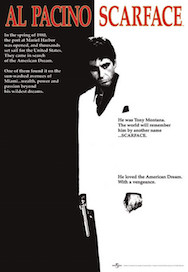
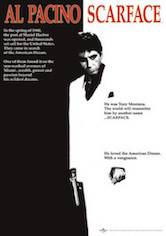
update videos_controller; fix image size

diff --git a/app/controllers/videos_controller.rb b/app/controllers/videos_controller.rb
@@ -1,7 +1,6 @@
 class VideosController < ApplicationController
   
   def index
-    @videos = Video.all
     @categories = Category.all
   end
 
